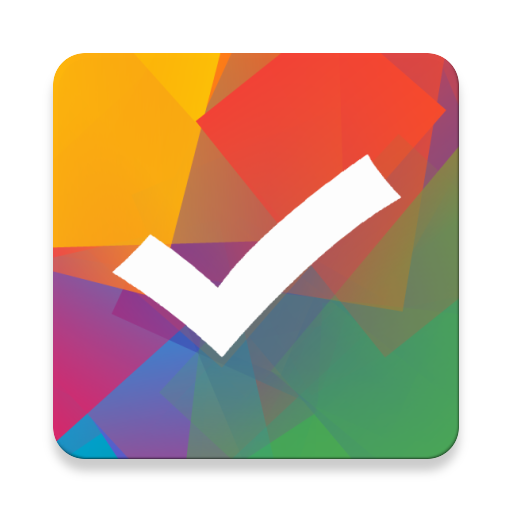
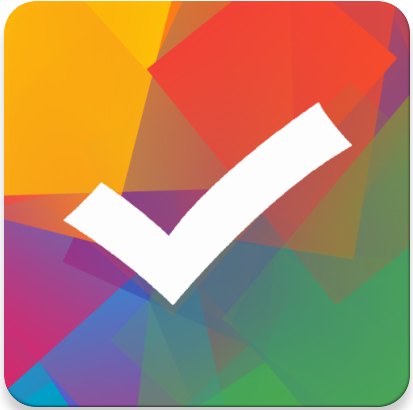
fix

diff --git a/src/template.html b/src/template.html
@@ -110,7 +110,7 @@
                 <h3 class="project-wrapper__text-title">Tasks-App</h3>
                 <div>
                   <p class="mb-4">
-                    A tasks-app, based on Node.JS Back-end postgreSQL Data-base and React Front-end. <br><br>
+                    A tasks-app, based on Node.JS Back-end Server, Mongo-DB Data-base and React Front-end. <br><br>
                     Features:<br>
                     <ul style="font-size: 15px">
                     <li >Sends E-mails on registering and deleting account</li>
@@ -133,7 +133,7 @@
               <div class="project-wrapper__image">
                 <a href="https://ozblech.github.io/task-app-front/" target="_blank">
                   <div data-tilt class="thumbnail rounded">
-                    <img class="img-fluid" src="./assets/tasks.png" />
+                    <img class="img-fluid" src="./assets/tasks2.png" />
                   </div>
                 </a>
               </div>
@@ -281,7 +281,7 @@
                 <h3 class="project-wrapper__text-title">Smart-Brain Face Recognition</h3>
                 <div>
                   <p class="mb-4">
-                    face recognition app using React front-end and Node.js back-end server using clarifai API and Postgre sql Data-base.
+                    Face recognition app using React Front-end, Node.js Back-end Server using clarifai API and Postgre SQL Data-base.
                   </p>
                 </div>
                 <a target="_blank" class="cta-btn cta-btn--hero" href="https://ozblech.github.io/smartBrainFaceRecognition/">
